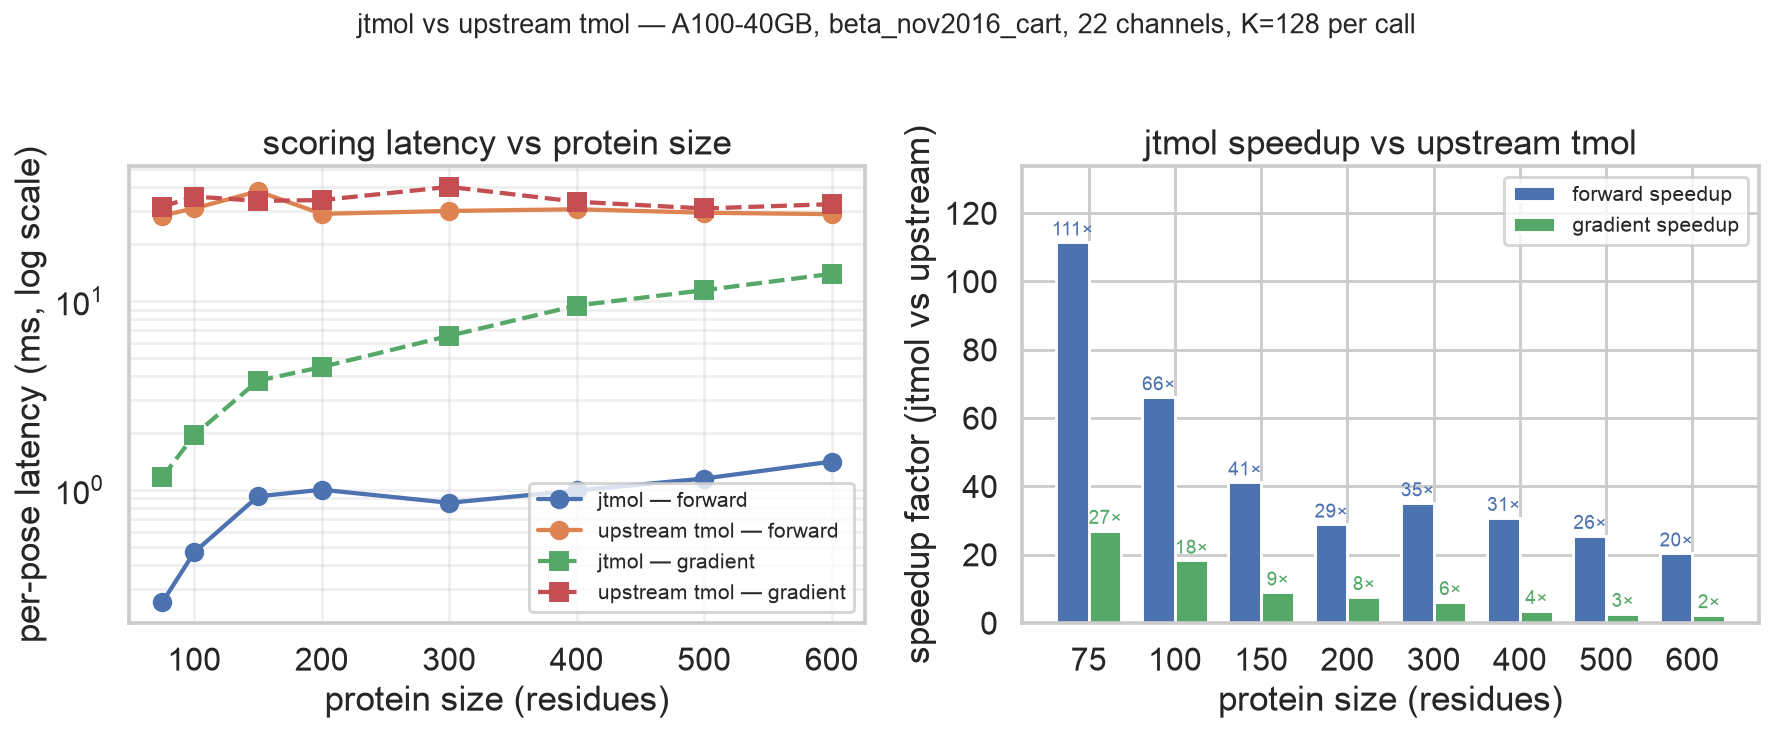
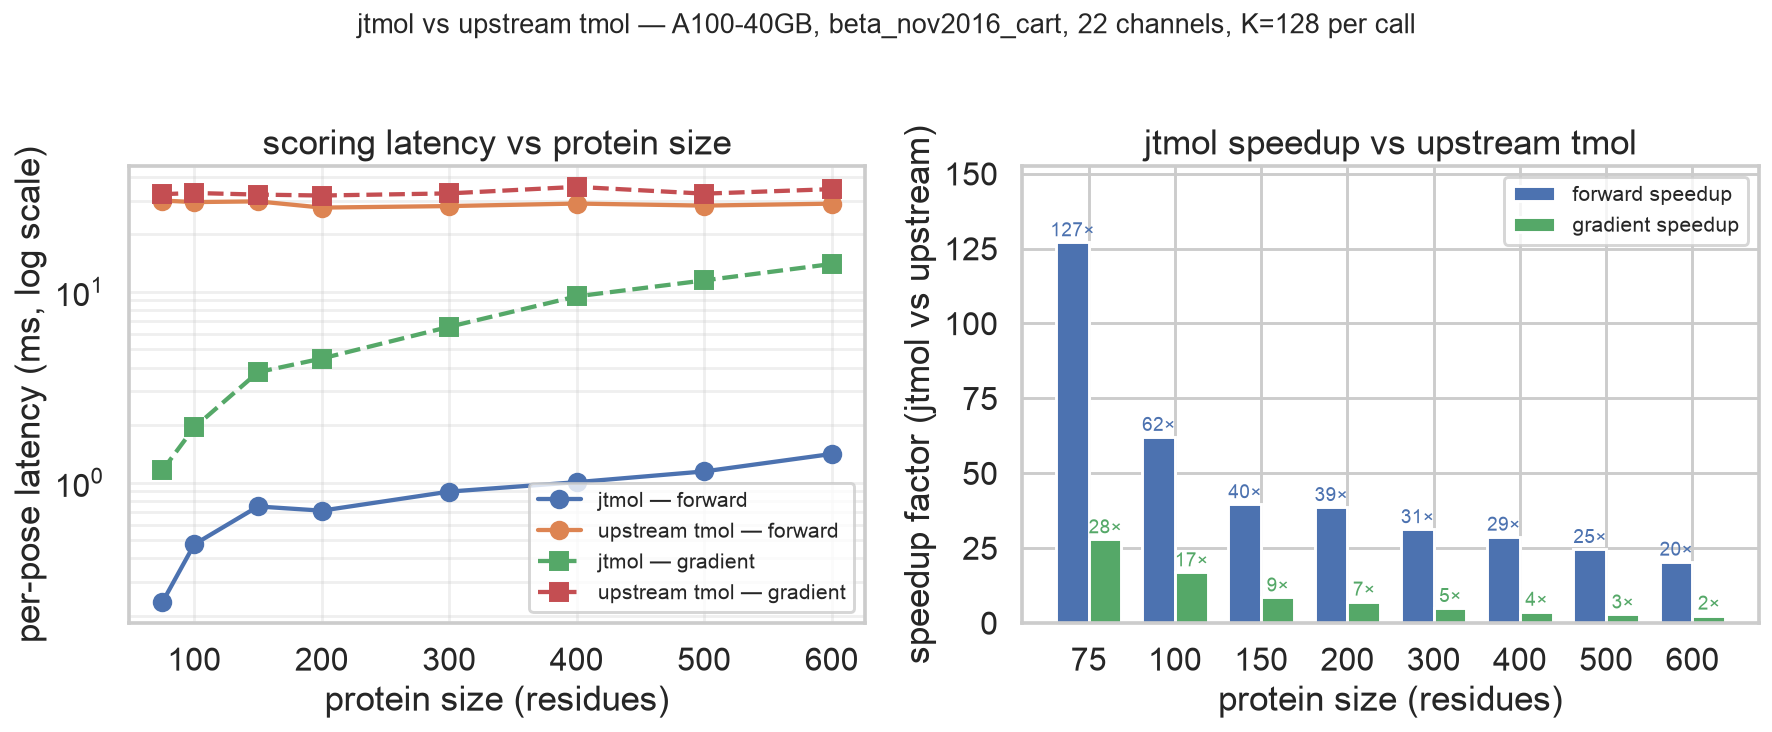
bench: refresh with no_grad-corrected forward numbers
Re-ran the A100 size sweep with upstream forward measured under
torch.no_grad (commit c10b55a). The fix confirmed rather than deflated
the forward speedups: 127x at 75res, 20x at 600res, essentially
unchanged from the prior run within measurement noise. Upstream forward
is dispatch-bound, so building/discarding the autograd graph is
negligible against kernel-launch overhead.

Updated figure, README table, BENCHMARKS.md, BENCHMARKS_SIZE_NL.md.

diff --git a/docs/figures/make_speedup_plot.py b/docs/figures/make_speedup_plot.py
@@ -15,13 +15,14 @@ import seaborn as sns
 
 sns.set_theme(style="whitegrid", context="talk")
 
-# Numbers from docs/BENCHMARKS_SIZE_NL.md.
+# Numbers from docs/BENCHMARKS_SIZE_NL.md (forward measured under
+# torch.no_grad for a fair forward-vs-forward comparison).
 residues = [75, 100, 150, 200, 300, 400, 500, 600]
 atoms    = [1116, 1591, 2465, 3039, 4466, 5899, 7561, 8800]
-jtmol_e  = [0.254, 0.467, 0.923, 1.001, 0.853, 0.992, 1.147, 1.410]
-up_e     = [28.314, 30.882, 38.035, 28.899, 29.931, 30.562, 29.287, 28.788]
-jtmol_g  = [1.166, 1.949, 3.778, 4.467, 6.532, 9.449, 11.391, 13.907]
-up_g     = [31.520, 35.686, 33.847, 34.166, 40.151, 33.497, 30.852, 32.521]
+jtmol_e  = [0.236, 0.474, 0.749, 0.712, 0.896, 1.004, 1.143, 1.411]
+up_e     = [30.004, 29.456, 29.712, 27.559, 28.071, 28.939, 28.231, 28.905]
+jtmol_g  = [1.159, 1.943, 3.784, 4.462, 6.542, 9.448, 11.448, 13.957]
+up_g     = [32.397, 32.873, 32.241, 31.880, 32.711, 35.392, 32.607, 34.432]
 
 speedup_e = [u / j for u, j in zip(up_e, jtmol_e)]
 speedup_g = [u / j for u, j in zip(up_g, jtmol_g)]

diff --git a/docs/BENCHMARKS.md b/docs/BENCHMARKS.md
@@ -16,14 +16,20 @@ one warmup.
 
 | residues | atoms | jtmol fwd (ms/pose) | upstream fwd | speedup | jtmol grad | upstream grad | speedup |
 |---:|---:|---:|---:|---:|---:|---:|---:|
-|  75 | 1116 | 0.254 | 28.31 | **111×** |  1.166 | 31.52 | **27×** |
-| 100 | 1591 | 0.467 | 30.88 |  66× |  1.949 | 35.69 | 18× |
-| 150 | 2465 | 0.923 | 38.04 |  41× |  3.778 | 33.85 |  9× |
-| 200 | 3039 | 1.001 | 28.90 |  29× |  4.467 | 34.17 |  8× |
-| 300 | 4466 | 0.853 | 29.93 |  35× |  6.532 | 40.15 |  6× |
-| 400 | 5899 | 0.992 | 30.56 |  31× |  9.449 | 33.50 |  4× |
-| 500 | 7561 | 1.147 | 29.29 |  26× | 11.391 | 30.85 |  3× |
-| 600 | 8800 | 1.410 | 28.79 | **20×** | 13.907 | 32.52 | **2×** |
+|  75 | 1116 | 0.236 | 30.00 | **127×** |  1.159 | 32.40 | **28×** |
+| 100 | 1591 | 0.474 | 29.46 |  62× |  1.943 | 32.87 | 17× |
+| 150 | 2465 | 0.749 | 29.71 |  40× |  3.784 | 32.24 |  9× |
+| 200 | 3039 | 0.712 | 27.56 |  39× |  4.462 | 31.88 |  7× |
+| 300 | 4466 | 0.896 | 28.07 |  31× |  6.542 | 32.71 |  5× |
+| 400 | 5899 | 1.004 | 28.94 |  29× |  9.448 | 35.39 |  4× |
+| 500 | 7561 | 1.143 | 28.23 |  25× | 11.448 | 32.61 |  3× |
+| 600 | 8800 | 1.411 | 28.91 | **20×** | 13.957 | 34.43 | **2×** |
+
+Forward is measured under `torch.no_grad()` on the upstream side so
+neither backend builds an autograd tape it discards — a fair
+forward-vs-forward comparison. (This correction left the forward
+speedups essentially unchanged: upstream forward is dispatch-bound, so
+tape-building is negligible against kernel-launch overhead.)
 
 Per-pose forward latency stays under 1.5 ms across an 8× range of
 protein size. Upstream stays at ~30 ms because Python and PyTorch

diff --git a/docs/BENCHMARKS_SIZE_NL.md b/docs/BENCHMARKS_SIZE_NL.md
@@ -2,11 +2,11 @@
 
 | Label | N atoms | chunk | jtmol E | upstream E | speedup E | jtmol grad | upstream grad | speedup grad |
 |---|---:|---:|---:|---:|---:|---:|---:|---:|
-| 75res_2mtq | 1116 | 4 | 0.254 | 28.314 | 111.6× | 1.166 | 31.520 | 27.0× |
-| 100res_5umr | 1591 | 2 | 0.467 | 30.882 | 66.1× | 1.949 | 35.686 | 18.3× |
-| 150res_5yzf | 2465 | 1 | 0.923 | 38.035 | 41.2× | 3.778 | 33.847 | 9.0× |
-| 200res_5mm8 | 3039 | 1 | 1.001 | 28.899 | 28.9× | 4.467 | 34.166 | 7.6× |
-| 300res_6f8b | 4466 | 1 | 0.853 | 29.931 | 35.1× | 6.532 | 40.151 | 6.1× |
-| 400res_6azu | 5899 | 1 | 0.992 | 30.562 | 30.8× | 9.449 | 33.497 | 3.5× |
-| 500res_5v2d | 7561 | 1 | 1.147 | 29.287 | 25.5× | 11.391 | 30.852 | 2.7× |
-| 600res_5m4a | 8800 | 1 | 1.410 | 28.788 | 20.4× | 13.907 | 32.521 | 2.3× |
+| 75res_2mtq | 1116 | 4 | 0.236 | 30.004 | 127.1× | 1.159 | 32.397 | 28.0× |
+| 100res_5umr | 1591 | 2 | 0.474 | 29.456 | 62.1× | 1.943 | 32.873 | 16.9× |
+| 150res_5yzf | 2465 | 1 | 0.749 | 29.712 | 39.7× | 3.784 | 32.241 | 8.5× |
+| 200res_5mm8 | 3039 | 1 | 0.712 | 27.559 | 38.7× | 4.462 | 31.880 | 7.1× |
+| 300res_6f8b | 4466 | 1 | 0.896 | 28.071 | 31.3× | 6.542 | 32.711 | 5.0× |
+| 400res_6azu | 5899 | 1 | 1.004 | 28.939 | 28.8× | 9.448 | 35.392 | 3.7× |
+| 500res_5v2d | 7561 | 1 | 1.143 | 28.231 | 24.7× | 11.448 | 32.607 | 2.8× |
+| 600res_5m4a | 8800 | 1 | 1.411 | 28.905 | 20.5× | 13.957 | 34.432 | 2.5× |

diff --git a/README.md b/README.md
@@ -70,9 +70,9 @@ Upstream is the live PyTorch wheel doing K serial scorings.
 
 | Protein size | jtmol forward (ms/pose) | upstream forward | speedup | jtmol gradient | upstream gradient | speedup |
 |---:|---:|---:|---:|---:|---:|---:|
-| 75 res | 0.25 | 28.3 | **111×** | 1.17 | 31.5 | **27×** |
-| 200 res | 1.00 | 28.9 | 29× | 4.47 | 34.2 | 7.6× |
-| 600 res | 1.41 | 28.8 | **20×** | 13.9 | 32.5 | **2.3×** |
+| 75 res | 0.24 | 30.0 | **127×** | 1.16 | 32.4 | **28×** |
+| 200 res | 0.71 | 27.6 | 39× | 4.46 | 31.9 | 7.1× |
+| 600 res | 1.41 | 28.9 | **20×** | 13.96 | 34.4 | **2.5×** |
 
 Two structural reasons for the gap:
 
